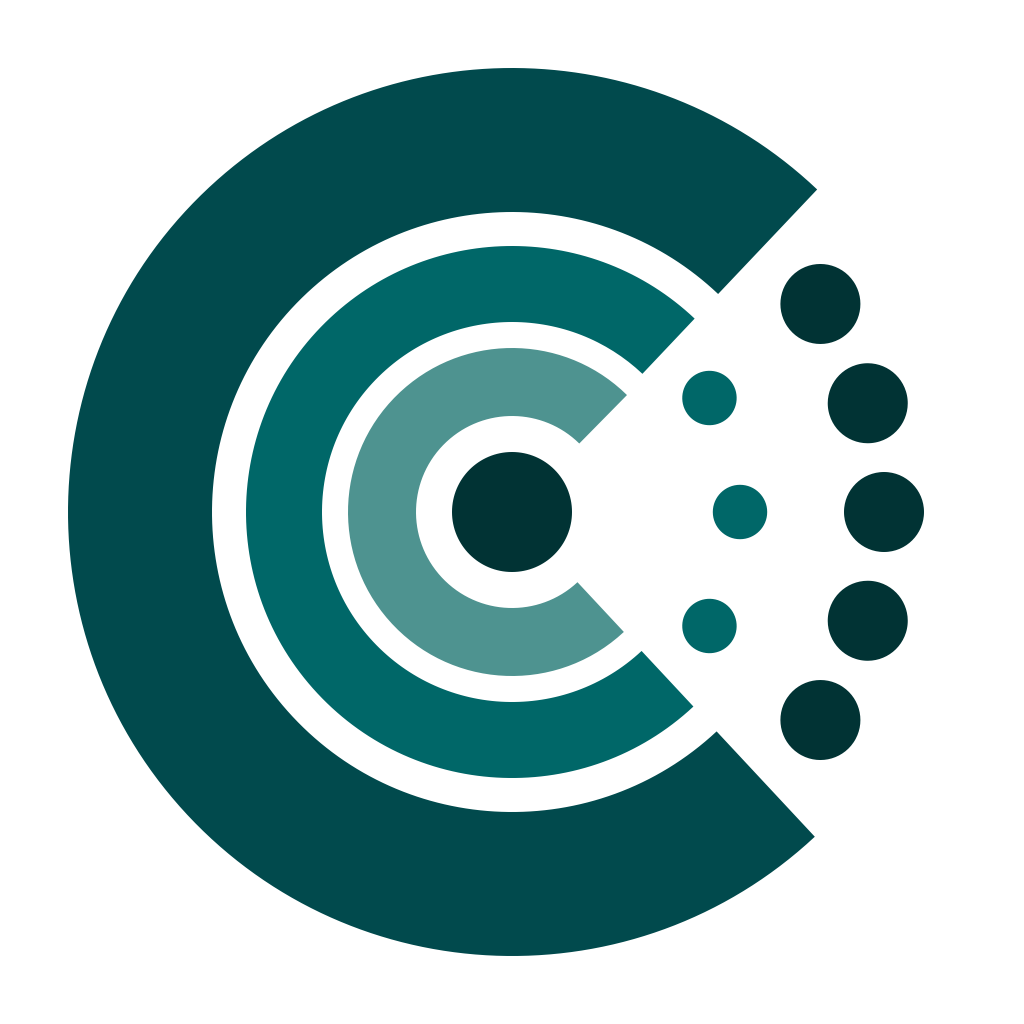
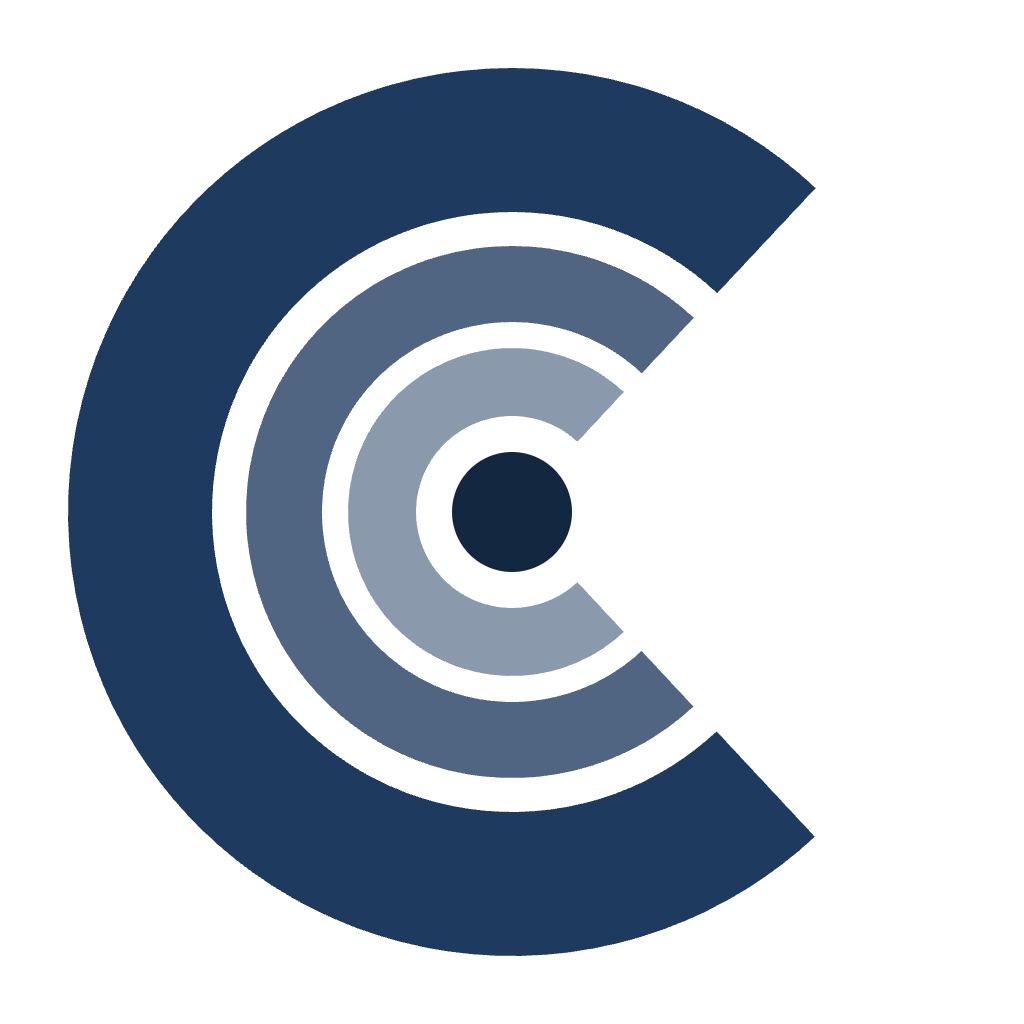
Plugin parliamentos 1.8.1: belegen auf Beleg-Vertrag v23, neuer Skill eu-verfahren-belegen (Spiegel aus normos-prototype) (#8)
Spiegel per scripts/skill-belegen-spiegeln.mjs aus normos-prototype a320844c (belegen 1.8.1, Vertrag v23, dreißig Belegarten). Neu: eu-verfahren-belegen 1.0.0. Icon: Signet in Navy (#1267 im Hauptrepo). CHANGELOG und Versionsabzeichen von Hand.

Geprüft lokal: claude plugin validate --strict (Marktplatz und Plugin, Profil directory), Geheimnisse, Spuren, Wächter-Tests 6/6, Links 11/11.

diff --git a/plugins/parliamentos/skills/belegen/SKILL.md b/plugins/parliamentos/skills/belegen/SKILL.md
@@ -1,6 +1,6 @@
 ---
 name: belegen
-version: 1.6.6
+version: 1.8.1
 description: Belegt Aussagen zu Bundestag, Landtagen, Nationalrat und EU-Parlament mit amtlichen Zeilen aus ParliamentOS (Beleg-Kennung, Beleg-Seite, Original) und prüft die fertige Antwort mit pruefe_belege. Use when a user asks what a parliament, faction, MP or MEP said, voted, tabled or lobbied, asks for quotes or sources on German, Austrian or EU politics, or wants a text with verifiable citations.
 ---
 
@@ -10,7 +10,7 @@ Der Connector liefert die Zeile, dieser Skill die Disziplin, der Validator den B
 MCP-Prompt `belegte_antwort` mit jeder Verbindung zu ParliamentOS.
 
 <!-- KERN-ANFANG -->
-Regeln für belegte Antworten mit ParliamentOS (Beleg-Vertrag v10)
+Regeln für belegte Antworten mit ParliamentOS (Beleg-Vertrag v23)
 
 1. Das Gate: Jede Aussage über eine Rede, eine Abstimmung, eine Drucksache, einen Lobbykontakt oder ein Treffen trägt eine Beleg-Kennung aus einer Antwort von ParliamentOS. Fehlt der Connector, steht am Anfang der Antwort: „ParliamentOS ist nicht verbunden. Verbinden: https://consiliumos.io/mcp“. Dann trägt jede Aussage aus dem Gedächtnis den Vermerk „(ungeprüft)“.
 
@@ -25,7 +25,7 @@ Die Grünen legten 21/222 am 20.05.2025 vor [[beleg:ds:ID]], der Bundestag lehnt
 Nach ]] folgt ein Leerzeichen oder ein Satzzeichen, nie direkt eine öffnende Klammer, weil Markdown „]](“ als Link liest. Die Links stehen gesammelt am Ende der Antwort, je Kennung eine Zeile, die mit der Kennung beginnt:
 [[beleg:bt-rede:ID]] Beleg: https://consiliumos.io/beleg/bt-rede/ID, Original: Link aus der Werkzeugantwort
 
-4. Zwei Kennungsarten: [[beleg:quelle:schlüssel]] gehört zum Prüfregister mit dreiundzwanzig Belegarten und wird von pruefe_belege gegen die amtliche Zeile geprüft. Den Beschluss des Bundestags über eine Vorlage und ihre Verkündung belegt die Kennung [[beleg:bt-vorgang:…]], die search_drucksachen und get_beleg je Drucksache nennen. Die Kennung ds trägt Nummer und Vorlagedatum der Drucksache, bt-vorgang trägt Beschlussdatum, Ergebnis, Verkündungsdatum und die Drucksachennummern des Beschlusses. Die Fundstelle im Bundesgesetzblatt gleicht der Prüfer nicht ab. Die Latenz Brüssel–Berlin belegt get_bruessel_berlin_latenz je Fall mit zwei Kennungen: eu-kom trägt das Datum der Annahme durch die Kommission, bt-vpos das Datum der Zuleitung an den Bundestag; jedes Datum steht direkt vor seiner Kennung. Dass beide Kennungen zur selben Vorlage gehören, prüft der Prüfer nicht. Anzahl, Median, Quartile und Spanne der Latenz tragen die Kennung kennzahl: Sie steht für die festgeschriebene Liste der Vorlagen, aus der der Prüfer die Zahlen nachrechnet; die Zahlen stehen direkt vor ihrer Kennung. Einen EU-Rechtsakt belegt die Kennung [[beleg:eu-rechtsakt:CELEX]] aus get_richtlinien_historie: Sie trägt Datum, CELEX und Rechtsaktnummer (Verordnung (EU) 2025/40 gehört zu 32025R0040) und, wo der Volltext vorliegt, den Wortlaut. Kennungen der Form quelle:schlüssel ohne Klammern führen zur Zeile und zum Original; die Prüfung umfasst sie heute noch nicht. Das sagt die Antwort dem Leser in einem Satz, wenn sie solche Kennungen enthält.
+4. Zwei Kennungsarten: [[beleg:quelle:schlüssel]] gehört zum Prüfregister mit dreißig Belegarten und wird von pruefe_belege gegen ihre Zeile geprüft. Den Beschluss des Bundestags über eine Vorlage und ihre Verkündung belegt die Kennung [[beleg:bt-vorgang:…]], die search_drucksachen und get_beleg je Drucksache nennen. Die Kennung ds trägt Nummer und Vorlagedatum der Drucksache, bt-vorgang trägt Beschlussdatum, Ergebnis, Verkündungsdatum und die Drucksachennummern des Beschlusses. Wie die Fraktionen in einer namentlichen Abstimmung gestimmt haben, belegt die Kennung [[beleg:bt-abst:…]] aus search_bundestag_abstimmungen: Der Prüfer vergleicht jedes Fraktionsvotum mit der Zählung je Fraktion dieser Zeile; ein Fraktionsvotum vor einer anderen Kennung und ein Votum der Koalition oder Opposition sperren den Prüfschein. Die Fundstelle im Bundesgesetzblatt gleicht der Prüfer nicht ab. Die Latenz Brüssel–Berlin belegt get_bruessel_berlin_latenz je Fall mit zwei Kennungen: eu-kom trägt das Datum der Annahme durch die Kommission, bt-vpos das Datum der Zuleitung an den Bundestag; jedes Datum steht direkt vor seiner Kennung. Dass beide Kennungen zur selben Vorlage gehören, prüft der Prüfer nicht. Anzahl, Median, Quartile und Spanne der Latenz tragen die Kennung kennzahl: Sie steht für die festgeschriebene Liste der Vorlagen, aus der der Prüfer die Zahlen nachrechnet; die Zahlen stehen direkt vor ihrer Kennung. Die Zahl der Vorgänge im Landtag Brandenburg zu einem Ort, je Typ und zusammen, trägt in search_bb_landtag_vorgaenge ebenfalls die Kennung kennzahl: Die Antwort nennt jede Zahl mit ihrem Nomen direkt vor ihrer Kennung (8 Anfragen [[beleg:kennzahl:…]]), addiert keine Typen und nennt den Zeitraum erst hinter der letzten Kennung des Absatzes; ein Datum davor sperrt. Einen EU-Rechtsakt belegt die Kennung [[beleg:eu-rechtsakt:CELEX]] aus get_richtlinien_historie: Sie trägt Datum, CELEX und Rechtsaktnummer (Verordnung (EU) 2025/40 gehört zu 32025R0040) und, wo der Volltext vorliegt, den Wortlaut. IFG-Dokumente des Landes Salzburg belegt die Kennung [[beleg:sbg-ifg:…]] aus search_sbg_ifg_dokumente; aus Dokumenten mit dem Vermerk Texterkennung zitiert die Antwort nicht wörtlich, und ein Muster benennt sie als Muster. Das Landesbudget Salzburg belegen die Kennungen [[beleg:sbg-budget:…]] (Position) und [[beleg:sbg-budget-summe:…]] (aus den Positionen nachgerechnete Summe) aus get_sbg_landesbudget. Ein Betrag nennt die Währung (10.000 €, 4,18 Mrd. €), sonst ist er unlesbar und sperrt. Der Prüfer rundet den Wert der Zeile kaufmännisch auf die letzte angegebene Stelle in der angegebenen Einheit (€, Tsd. €, Mio. €, Mrd. €); Wörter wie „rund“ oder „etwa“ ändern daran nichts. Das Jahr steht vor der Kennung und entspricht ihrem Jahr. Ein Betrag aus dem Voranschlag ist geplant oder veranschlagt, ausgegeben und eingenommen sind Beträge aus dem Rechnungsabschluss; eine Verwechslung sperrt. An sbg-budget prüft der Prüfer kein Datum: Ein Beschlussdatum steht vor seiner eigenen Kennung. Prozentangaben und Veränderungen gegenüber dem Vorjahr sind nicht prüfbar. Vorsichtig sperren im Satz einer Budget-Kennung auch eine Zahl mit Einheit ohne Währung (0,56 Mio. Einwohner) und eine Aktenzahl mit Schrägstrich-Jahr (Zl. 2024/12). Ressortnamen gibt die Antwort als Ressortbezeichnung laut Datei wieder. Kennungen org-dok sind eigene Quellen der Organisation; sie zählen nicht als amtlich. Kennungen der Form quelle:schlüssel ohne Klammern führen zur Zeile und zum Original; die Prüfung umfasst sie heute noch nicht. Das sagt die Antwort dem Leser in einem Satz, wenn sie solche Kennungen enthält.
 
 5. Prüfen mit pruefe_belege: Vorher jeden Absatz durchgehen. Nennt er einen Namen, eine Partei, eine Zahl, ein Datum oder ein Zitat, trägt er eine Kennung; sonst Kennung ergänzen oder Absatz streichen. Harte Angaben sind Drucksachennummern (21/322), Stimmenzahlen (578 : 39 : 15), Beträge in Euro, EU-Kennungen (CELEX, TA-Nummer, A-Referenz, Verfahrensnummer, im Absatz einer Kennung eu-rechtsakt auch die Rechtsaktnummer wie 2019/904), Attributionen in Klammern (Nachname, 05.06.2025) und wörtliche Zitate in Anführungszeichen. Jede harte Angabe braucht im selben Absatz eine Kennung, deren Zeile sie trägt; sonst sperrt der Prüfschein. Nummern von Plenarprotokollen zählen nicht als Angabe. Dann die ganze fertige Antwort übergeben, genau so, wie der Leser sie sieht.
 - Ergebnis gesperrt: der Handlungszeile aus der Antwort folgen; die Wörter „geprüft“ und „verifiziert“ stehen dann nirgends im Text.
@@ -44,7 +44,7 @@ Nach ]] folgt ein Leerzeichen oder ein Satzzeichen, nie direkt eine öffnende Kl
 8. Befund melden: Ist das Werkzeug melde_befund verfügbar, meldet die KI damit, was an Daten oder Werkzeugen auffällt: Die Zeile aus get_beleg weicht vom Original ab, ein Treffer kommt ohne Kennung, im Bestand fehlt, was das Original innerhalb der Bestandsgrenze führt, oder eine Werkzeugbeschreibung verspricht etwas anderes als das Ergebnis. Die Meldung besteht aus festen Feldern: Art, Kennung oder Werkzeug, bei einer Abweichung das Merkmal mit dem Wert der Zeile und dem Wert des Originals, sonst eine Auswahl aus der Liste der Art. Die Frage des Nutzers und Angaben über Personen außerhalb der amtlichen Zeile gehören nie hinein. Je Befund eine Meldung; sie zählt nicht im Monatskontingent.
 <!-- KERN-ENDE -->
 
-Beim Aufruf von pruefe_belege das Feld regeln auf skill-belegen@1.6.6 setzen.
+Beim Aufruf von pruefe_belege das Feld regeln auf skill-belegen@1.8.1 setzen.
 
 ## Beispielantwort (verkürzt)
 
@@ -61,6 +61,18 @@ Beim Aufruf von pruefe_belege das Feld regeln auf skill-belegen@1.6.6 setzen.
 
 Die letzte Zeile stammt wörtlich aus der Antwort von `pruefe_belege` und steht nur bei Ergebnis `freigegeben`.
 Bei `gesperrt` lautet sie „Prüfung: n von m Belegstellen verifiziert. Prüfschein: …“; wird eine Kennung mehrfach geprüft (Fließtext und Quellenliste), nennt die Fußzeile zusätzlich die Zahl der Kennungen.
+
+## Beispiel Landesbudget Salzburg (verkürzt)
+
+> Für Dolmetschergebühren des Landtags sind 2025 10.000 € veranschlagt [[beleg:sbg-budget:VA-2025-EH-00001-6410001]]
+>
+> Das Land plant 2025 rund 4,2 Mrd. € Aufwendungen [[beleg:sbg-budget-summe:VA-2025-EH-gesamt-aufw]]
+
+Beide Beträge stammen aus dem Voranschlag und heißen darum geplant oder veranschlagt. Das Jahr steht vor der
+Kennung, der Betrag nennt die Währung. „rund 4,2 Mrd. €“ besteht, weil die nachgerechnete Summe (4.183.537.400,00 €)
+auf eine Nachkommastelle in Milliarden gerundet 4,2 ergibt. 11.000 € oder „gab 2025 10.000 € aus“ sperren den
+Prüfschein. Zahlen aus dem Rechnungsabschluss heißen ausgegeben oder eingenommen. Anteile in Prozent und Vergleiche
+mit dem Vorjahr rechnet der Prüfer nicht nach; im Absatz einer Budget-Kennung sperren sie den Prüfschein.
 
 ## Was der Prüfschein bedeutet
 

diff --git a/plugins/parliamentos/skills/eu-verfahren-belegen/SKILL.md b/plugins/parliamentos/skills/eu-verfahren-belegen/SKILL.md
@@ -1,0 +1,86 @@
+---
+name: eu-verfahren-belegen
+version: 1.0.0
+description: Belegt den Lebenslauf eines EU-Gesetzgebungsverfahrens mit amtlichen Zeilen aus ParliamentOS, Station für Station vom Kommissionsdokument über EWSA und AdR, Ausschuss, Abstimmung und angenommenen Text bis zur Zuleitung an den Bundestag, und prüft die fertige Antwort mit pruefe_belege. Use when a user asks how an EU regulation or directive came about, where an EU procedure stands, who voted how in the European Parliament, when the Bundestag received an EU proposal, or wants a verifiable timeline or dossier of an EU procedure.
+---
+
+# EU-Verfahren belegen mit ParliamentOS
+
+Dieser Skill führt durch ein EU-Verfahren und gibt jeder Station ihre Beleg-Kennung. Er baut auf dem Skill `belegen`
+auf: Dessen Regeln zu Format, Links und Prüfschein gelten hier unverändert.
+
+Für Dokumente, die den Zitat-Validator durchlaufen, gilt:
+jede Belegstelle maschinell gegen amtliche Zeilen geprüft, deterministisch, ohne Sprachmodell im Prüfpfad.
+Der Prüfschein deckt die Belegstellen ab (Kennung und amtliche Zeile). Vollständigkeit und Wertung der Antwort
+liegen bei der Autorin oder dem Autor.
+
+## Ablauf
+
+1. **Verfahren klären.** `get_eu_vorgang` mit dem Aktenzeichen aufrufen (`reference: "2022/0396(COD)"`), ohne
+   Aktenzeichen mit `topic`. Liefert die Suche mehrere Verfahren, nennt die Antwort die Treffer und fragt, welches
+   gemeint ist. Der Einzeltreffer trägt den Block „Stationen mit Beleg“.
+
+2. **Stationen übernehmen.** Je Station mit Bestand ein Satz. Kennungen stehen unverändert am Ende der Aussage, die sie
+   stützen:
+
+   | Station | Kennung | Was die Zeile trägt |
+   |---|---|---|
+   | Kommissionsdokument | `eu-kom` | Datum der Annahme durch die Kommission |
+   | EWSA und AdR | `eu-stn` | Datum, Berichterstatter, Wortlaut der Stellungnahme |
+   | Ablauf im Parlament | `eu-verfahren` | Tage der Ereignisse, Verfahrensnummer |
+   | Angenommene Texte | `eu-ta` | Datum, TA-Nummer, Wortlaut |
+   | Hauptabstimmungen | `ep-abst` | Datum, Stimmenzahlen, Ergebnis |
+   | Votum einzelner Abgeordneter | `ep-stimme` | Datum, Name, Fraktion, Votum |
+   | Zuleitung an den Bundestag | `bt-vpos` | Datum der Zuleitung |
+   | Erste Unterrichtung des Bundesrats | `bt-vpos` | Datum der Unterrichtung |
+   | Weitere Schritte von Bundestag und Bundesrat | ohne Kennung | Datum und Art laut DIP, in der Antwort als ungeprüft kennzeichnen |
+   | Treffen mit Interessenvertretern | `ep-treffen` | Datum, Abgeordnete, Organisationen |
+   | Rechtsakt | `eu-rechtsakt` | Datum, CELEX, Rechtsaktnummer, Wortlaut |
+
+3. **Vertiefen, wo die Frage es verlangt.**
+   - Wortlaut einer Stellungnahme: `search_eu_ausschuss_stellungnahmen`
+   - Wortlaut eines angenommenen Textes: `search_eu_angenommene_texte`
+   - Positionen der Fraktionen: `get_eu_positionsmatrix`
+   - Votum einzelner Abgeordneter: `get_mep_vote`
+   - Treffen der Berichterstatter: `get_legislative_footprint`
+   - Abstand zwischen Kommission und Bundestag: `get_bruessel_berlin_latenz`
+   - Rechtsakt, Änderungen und Berichtigungen: `get_richtlinien_historie` mit CELEX oder Titel
+   - Wortlaut für ein Zitat: `get_beleg` mit der Kennung
+
+4. **Lücken benennen.** Eine Station ohne Zeile heißt in der Antwort „kein Bestand in ParliamentOS“; die Aussage zu
+   dieser Station entfällt. Die Grenzen des Bestands gehören in die Antwort, wenn sie das Verfahren berühren:
+   Abstimmungen des Parlaments liegen ab 07/2019 vor, Reden ab 09/2021. Der Rat der EU hat keinen Bestand in
+   ParliamentOS. Der Rechtsakt eines Verfahrens erscheint in den Stationen, sobald die Verknüpfung Verfahren →
+   Rechtsakt geladen ist; bis dahin führt `get_richtlinien_historie` über CELEX oder Titel zum Rechtsakt.
+
+5. **Prüfen.** Die fertige Antwort mit `pruefe_belege` prüfen, bei „gesperrt“ die genannten Stellen korrigieren und
+   einmal erneut prüfen. Die Fußzeile des Prüfscheins steht unverändert als letzte Zeile unter dem Text.
+
+## Schreibregeln für die Stationen
+
+- **Ein Datum vor seine Kennung.** Der Prüfer vergleicht ein Datum mit der Zeile der ersten Kennung, die danach steht.
+  Nennt ein Satz zwei Stationen, steht jede Kennung direkt hinter ihrem Teil.
+- **`eu-verfahren` trägt nur Ereignistage.** Jedes Datum vor dieser Kennung muss ein Ereignistag des Verfahrens sein;
+  ein Tag aus einer anderen Quelle gehört hinter die Kennung dieser Quelle. Geprüft wird der Tag: Welches Ereignis an
+  diesem Tag lag, übernimmt die Antwort wörtlich aus der Zeile von `get_eu_vorgang`.
+- **Die Verfahrensnummer** (`2022/0396(COD)`) ist eine harte Angabe. Sie braucht im selben Absatz eine Kennung
+  `eu-verfahren`, `ep-abst` oder `ep-stimme`, deren Zeile sie trägt.
+- **Stimmenzahlen** stehen vor `ep-abst`, das Votum einer Person vor `ep-stimme`.
+- **Links.** Der Block „Stationen mit Beleg“ nennt die Kennungen. Den Original-Link jeder Kennung liefert `get_beleg`;
+  die Belegliste am Ende übernimmt ihn von dort, und eine Kennung ohne abgerufenen Link trägt nur die Beleg-Seite.
+- **Wertungen** („früh“, „umstritten“, „knapp“) tragen keine Kennung und bleiben als Einordnung der Antwort erkennbar.
+
+## Beispiel (Verpackungsverordnung, gemessen 17.11.2026)
+
+> Die Kommission nahm den Vorschlag am 30.11.2022 an [[beleg:eu-kom:COM_2022_0677]]. Das Parlament überwies ihn am
+> 13.03.2023 an den Ausschuss [[beleg:eu-verfahren:2022-0396]], der Ausschuss nahm seinen Bericht am 24.10.2023 an
+> [[beleg:eu-verfahren:2022-0396]]. Das Verfahren 2022/0396(COD) wurde am 22.01.2025 im Amtsblatt veröffentlicht
+> [[beleg:eu-verfahren:2022-0396]].
+>
+> Zuleitung an den Bundestag: kein Bestand in ParliamentOS.
+>
+> Belege:
+> [[beleg:eu-kom:COM_2022_0677]] Beleg: https://consiliumos.io/beleg/eu-kom/COM_2022_0677, Original: Link aus get_beleg
+> [[beleg:eu-verfahren:2022-0396]] Beleg: https://consiliumos.io/beleg/eu-verfahren/2022-0396, Original: Link aus get_beleg
+
+Beim Aufruf von pruefe_belege das Feld regeln auf skill-eu-verfahren-belegen@1.0.0 setzen.

diff --git a/CHANGELOG.md b/CHANGELOG.md
@@ -3,6 +3,22 @@
 Format nach [Keep a Changelog](https://keepachangelog.com/de/1.1.0/), Versionen nach [SemVer](https://semver.org/lang/de/).
 Die Version des Plugins folgt der Version des Skills `belegen`.
 
+## [1.8.1] – 2026-11-23
+
+### Hinzugefügt
+- Skill `eu-verfahren-belegen` 1.0.0: führt durch ein EU-Gesetzgebungsverfahren und gibt jeder Station ihre Kennung,
+  vom Kommissionsdokument bis zur Zuleitung an den Bundestag und zum Bundesrat.
+
+### Geändert
+- Skill `belegen` 1.6.6 → 1.8.1: Beleg-Vertrag v23 mit dreißig Belegarten. Neu seit v10: Fraktionsvoten aus
+  namentlichen Abstimmungen (`bt-abst`) und Ergebnisse in Verbform (v11), Stationen von EU-Verfahren (`eu-verfahren`),
+  Ressort und PDF-Prüfsumme an Drucksachen (v13), IFG-Dokumente des Landes Salzburg (`sbg-ifg`, v14), Landesbudget
+  Salzburg mit Rundungsregel (`sbg-budget`, `sbg-budget-summe`, v15, v18, v19), Vorgänge im Landtag Brandenburg mit
+  Partei je Person und Ort (`bb-vorgang`, v16, v20) samt Zählung je Typ (`kennzahl`, v21), eigene Dokumente einer
+  Organisation (`org-dok`, v17, nicht amtlich), Abschnitte der Beantwortungen Salzburger Landtagsanfragen (`sbg-bea`,
+  v22) und deren Redebeiträge je Sprecher und Sitzungstag (v23). Beispiel Landesbudget Salzburg.
+- Plugin-Icon: Signet in Navy, wie überall bei ConsiliumOS.
+
 ## [1.6.6] – 2026-11-15
 
 ### Geändert

diff --git a/plugins/parliamentos/README.md b/plugins/parliamentos/README.md
@@ -5,7 +5,9 @@ ParliamentOS und bringt den Skill **belegen** mit: Jede Aussage über eine Rede,
 oder einen Lobbykontakt trägt eine Beleg-Kennung, einen Link zur Beleg-Seite und einen zum Originaldokument.
 Die fertige Antwort prüft das Werkzeug `pruefe_belege` gegen die amtlichen Zeilen und stellt einen signierten,
 öffentlich lesbaren Prüfschein aus. Der Skill **rede-belegen** baut darauf auf: Er fragt für Reden, Bilanzen und
-Dossiers alle Belegarten ab und schneidet eine Rede am gemessenen Sprechtempo des Redners zu.
+Dossiers alle Belegarten ab und schneidet eine Rede am gemessenen Sprechtempo des Redners zu. Der Skill
+**eu-verfahren-belegen** führt durch ein EU-Gesetzgebungsverfahren und gibt jeder Station ihre Kennung, vom
+Kommissionsdokument bis zur Zuleitung an den Bundestag.
 
 Installieren (in Claude Code):
 
@@ -17,4 +19,4 @@ Installieren (in Claude Code):
 Einrichten: Nach der Installation mit `/mcp` bei ParliamentOS anmelden. Ein kostenloses Konto mit 100 Aufrufen und 20 Prüfscheinen im Monat
 gibt es unter https://consiliumos.io/mcp.
 
-Version 1.6.6 · Lizenz MIT · Datenschutz: https://consiliumos.io/privacy
+Version 1.8.1 · Lizenz MIT · Datenschutz: https://consiliumos.io/privacy

diff --git a/README.md b/README.md
@@ -5,7 +5,7 @@ und Original, die fertige Antwort mit signiertem Prüfschein.**
 
 [![Wächter](https://github.com/Consilium-Intelligence/parliamentos-skills/actions/workflows/waechter.yml/badge.svg)](https://github.com/Consilium-Intelligence/parliamentos-skills/actions/workflows/waechter.yml)
 [![mcptry: Status und Punkte](https://mcptry.com/badge/io.consiliumos/parliamentos)](https://mcptry.com/servers/io.consiliumos/parliamentos)
-![Plugin-Version](https://img.shields.io/badge/plugin-1.6.6-1f6f5c)
+![Plugin-Version](https://img.shields.io/badge/plugin-1.8.1-1f6f5c)
 ![Lizenz](https://img.shields.io/badge/Lizenz-MIT-1f6f5c)
 
 [English below](#english)
